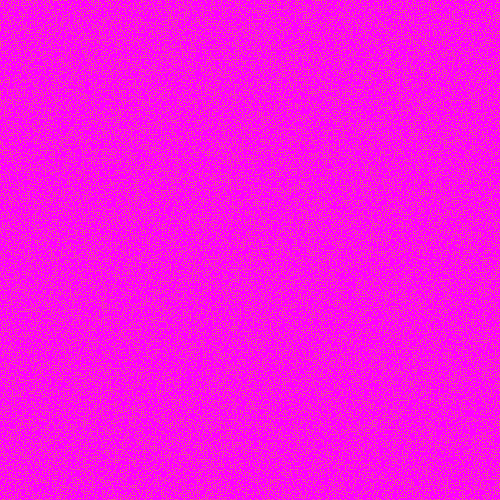
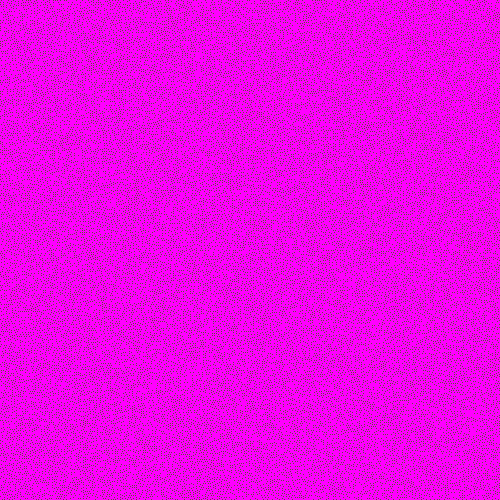
Added Skin and Shadows

Changed region(s): [[0.0, 0.0, 1.0, 1.0]]

diff --git a/src/ExampleApp.cpp b/src/ExampleApp.cpp
@@ -268,7 +268,7 @@ void ExampleApp::setupGeometry(std::shared_ptr<basicgraphics::Mesh>& _mesh) {
 	unsigned char colors[1000000];
 
 	for (int i = 0; i < 1000000; i+=4) {
-		fillByteInByteArray(colors, i, 60, 60, 60, 0);
+		fillByteInByteArray(colors, i, 0, 0, 0, 0);
 	}
 
 	////compute the number of opaque pixels = nr of hair strands
@@ -284,12 +284,9 @@ void ExampleApp::setupGeometry(std::shared_ptr<basicgraphics::Mesh>& _mesh) {
 		y = rand() % width;
 
 		if (checkNeighbors(colors, x, y, width)) {
-			fillByteInByteArray(colors, (x * width + y) * 4, 218, 165, 32, 255);
+			fillByteInByteArray(colors, (x * width + y) * 4, 95, 80, 54, 255);
 		}
 
-		/*else {
-			cout << checkNeighbors(colors, x, y, width) << endl;
-		}*/
 
 		
 	}
